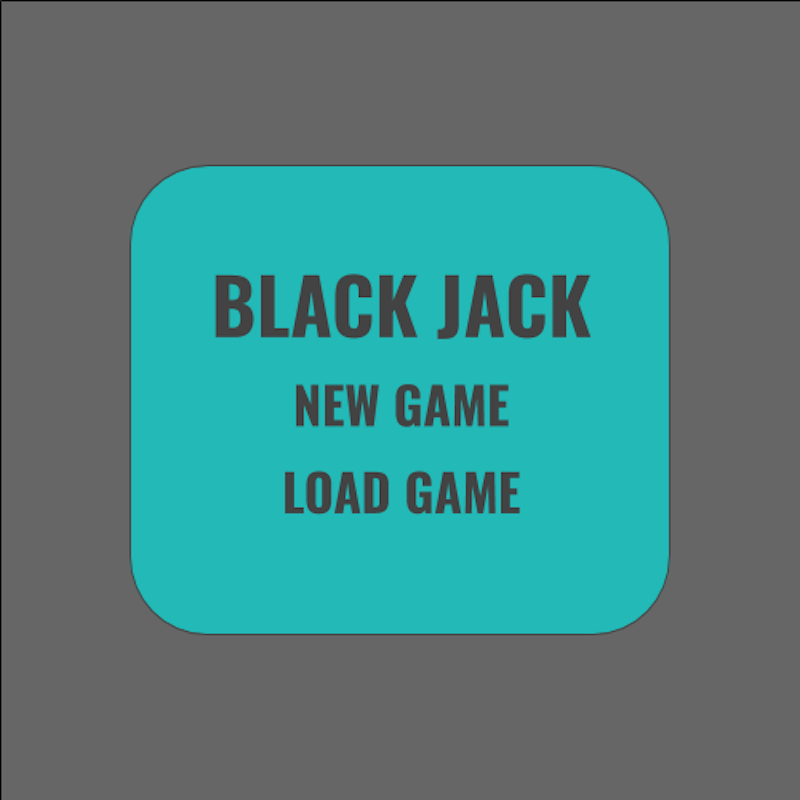
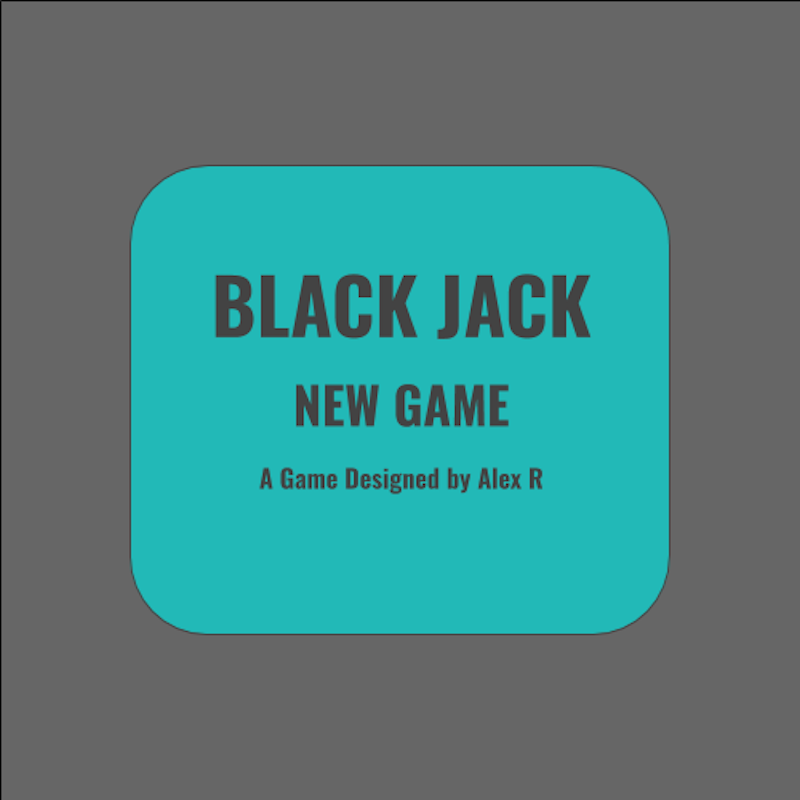
Small Features + Bug Fixes

Changed region(s): [[0.3125, 0.5625, 0.6875, 0.6562]]

diff --git a/main.py b/main.py
@@ -1,7 +1,7 @@
 #stuff to add + issues
-#win if player has 5 cards
-#split conditions: money + card
 #dealer not hiding card
+#pygame.draw.rect(win, (0,255,0),(50, 730, 100, 10))
+#pygame.display.update()
 from card import Card
 from hand import Hand
 from time import sleep
@@ -147,20 +147,63 @@ def playerEvent():
                     hands[1].addCard(deck[0])
                     deck.pop(0)
             else:
-                #win
-                if hands[currentHand].getHandValue() > hands[1].getHandValue() or hands[1].getHandValue() > 21:
-                    currentEvent = "You Win!"
-                    textWrite(currentEvent, 60, (255,255,255), 150, 100)
-                    money = money + bet
-                #lose
-                elif hands[currentHand].getHandValue() < hands[1].getHandValue() and hands[1].getHandValue() < 22:
-                    currentEvent = "You Lose!"
-                    textWrite(currentEvent, 60, (255,255,255), 150, 100)
-                    money = money - bet
-                #tie
+                if hands[0].hasSplit == False:
+                    #win
+                    if hands[currentHand].getHandValue() > hands[1].getHandValue() or hands[1].getHandValue() > 21:
+                        currentEvent = "You Win!"
+                        textWrite(currentEvent, 60, (255,255,255), 150, 100)
+                        money = money + bet
+                    #lose
+                    elif hands[currentHand].getHandValue() < hands[1].getHandValue() and hands[1].getHandValue() < 22:
+                        currentEvent = "You Lose!"
+                        textWrite(currentEvent, 60, (255,255,255), 150, 100)
+                        money = money - bet
+                    #tie
+                    else:
+                        currentEvent = "Tie!"
+                        textWrite(currentEvent, 60, (255,255,255), 150, 100)
+                #calculates winnings if the player has split with both hands standing
                 else:
-                    currentEvent = "Tie!"
-                    textWrite(currentEvent, 60, (255,255,255), 150, 100)
+                    splitTie = True
+                    #win x 2
+                    if hands[0].getHandValue() > hands[1].getHandValue() or hands[1].getHandValue() > 21:
+                        if hands[currentHand].getHandValue() > hands[1].getHandValue() or hands[1].getHandValue() > 21:
+                            currentEvent = "You Win!"
+                            textWrite(currentEvent, 60, (255,255,255), 150, 100)
+                            money = money + bet*2
+                            splitTie = False
+                    #lose x 2
+                    elif hands[0].getHandValue() < hands[1].getHandValue() and hands[1].getHandValue() < 22:
+                        if hands[currentHand].getHandValue() < hands[1].getHandValue() and hands[1].getHandValue() < 22:
+                            currentEvent = "You Lose!"
+                            textWrite(currentEvent, 60, (255,255,255), 150, 100)
+                            money = money - bet*2
+                            splitTie = False
+                    #win x 1
+                    if hands[0].getHandValue() > hands[1].getHandValue() and hands[currentHand].getHandValue() == hands[1].getHandValue():
+                        currentEvent = "You Win!"
+                        textWrite(currentEvent, 60, (255,255,255), 150, 100)
+                        money = money + bet
+                    #win x 1
+                    elif hands[currentHand].getHandValue() > hands[1].getHandValue() and hands[0].getHandValue() == hands[1].getHandValue():
+                        currentEvent = "You Win!"
+                        textWrite(currentEvent, 60, (255,255,255), 150, 100)
+                        money = money + bet
+                    #lose x 1
+                    elif hands[0].getHandValue() < hands[1].getHandValue() and hands[currentHand].getHandValue() == hands[1].getHandValue():
+                        currentEvent = "You Lose!"
+                        textWrite(currentEvent, 60, (255,255,255), 150, 100)
+                        money = money - bet
+                    #lose x 1
+                    elif hands[currentHand].getHandValue() < hands[1].getHandValue() and hands[0].getHandValue() == hands[1].getHandValue():
+                        currentEvent = "You Lose!"
+                        textWrite(currentEvent, 60, (255,255,255), 150, 100)
+                        money = money - bet
+                    #tie - tie - one wine one lose
+                    elif splitTie == True:
+                        currentEvent = "Tie!"
+                        textWrite(currentEvent, 60, (255,255,255), 150, 100)
+
                 pygame.display.update()
                 hands[currentHand].stand = False
                 currentHand = 0
@@ -210,9 +253,26 @@ def playerEvent():
             hands[0].split = False
 
 
-#player
-#def win():
-
+#when player has five cards
+def winGame():
+    global money
+    if hands[0].split == False or currentHand == -1:
+        currentEvent = "You Win - 5 cards!"
+        textWrite(currentEvent, 60, (255,255,255), 150, 70)
+        money = money + bet
+        pygame.display.update()
+        sleep(2)
+        currentHand = 0
+        resetDeck(4)
+        startHand()
+        makeBet()
+    else:
+        currentEvent = "You Win - 5 cards!"
+        textWrite(currentEvent, 60, (255,255,255), 150, 70)
+        money = money + bet
+        pygame.display.update()
+        sleep(2)
+        currentHand = -1
 
 #function for input events in pygame
 def input(eventtype, event, x1, x2, y1 ,y2):
@@ -271,13 +331,10 @@ def makeBet():
             #different bet buttons
             elif input(pygame.MOUSEBUTTONDOWN, event, 50, 150, 630, 730) == True:
                 bet = 10
-                print(bet)
             elif input(pygame.MOUSEBUTTONDOWN, event, 200, 300, 630, 730) == True:
                 bet = 20
-                print(bet)
             elif input(pygame.MOUSEBUTTONDOWN, event, 350, 450, 630, 730) == True:
                 bet = 50
-                print(bet)
             elif input(pygame.MOUSEBUTTONDOWN, event, 500, 600, 630, 730) == True:
                 bet = 100
             elif input(pygame.MOUSEBUTTONDOWN, event, 650, 750, 630, 730) == True:
@@ -299,7 +356,7 @@ def makeBet():
                 maxwellLimit = 16
 
 
-
+#this function shows the cards
 def showCards(handNum, cardY, center):
     cardAmount = len(hands[handNum].cards)
     hands[handNum].printHand()
@@ -339,7 +396,7 @@ def showCards(handNum, cardY, center):
         textWrite(str(hands[handNum].hand[2]), 50, (0,0,0), 470-center, cardY)
         textWrite(str(hands[handNum].hand[0]), 50, (0,0,0), 540-center, cardY)
 
-
+#opening screen
 while opening == True:
 
     clock.tick(27)
@@ -357,10 +414,12 @@ while opening == True:
         if input(pygame.MOUSEBUTTONDOWN, event, 300, 500, 300, 500) == True:
             opening = False
 
+#starting arangements
 resetDeck(4)
 startHand()
 makeBet()
 
+#main game loop
 while game == True:
 
     clock.tick(27)
@@ -380,14 +439,22 @@ while game == True:
         #split
         elif input(pygame.MOUSEBUTTONDOWN, event, 225, 325, 650, 700) == True:
             hands[0].checkSplit()
+            #checks if there are two cards
+            if len(hands[0].cards) == 2:
+                #checks if the cards equal each other
+                if hands[0].cards[0].getCardValue() == hands[0].cards[1].getCardValue():
+                    #checks if the player has enough money
+                    if money > bet*2:
+                        hands[0].checkSplit()
 
         #hit
         elif input(pygame.MOUSEBUTTONDOWN, event, 350, 450, 650, 700) == True:
             if hands[currentHand].getHandValue() < 21 and hands[currentHand].stand == False:
                 hands[currentHand].addCard(deck[0])
                 deck.pop(0)
+                #checks if player has five cards
                 if hands[currentHand].handFive() == True:
-                    win()
+                    winGame()
         
         #stand
         elif input(pygame.MOUSEBUTTONDOWN, event, 475, 575, 650, 700) == True:

diff --git a/hand.py b/hand.py
@@ -80,7 +80,6 @@ class Hand:
     def checkSplit(self):
         self.split = True
 
-
     #when player stands this determines
     #how the other players play
     def multipleHits(self, limit):

diff --git a/README.md b/README.md
@@ -1,1 +1,7 @@
 Blackjack
+
+Hey, this is a blackjack game designed by Alexander Richardson.
+
+There's a couple important things to take not of when playing:
+
+-When the player gets to 21 the game automatically stands
